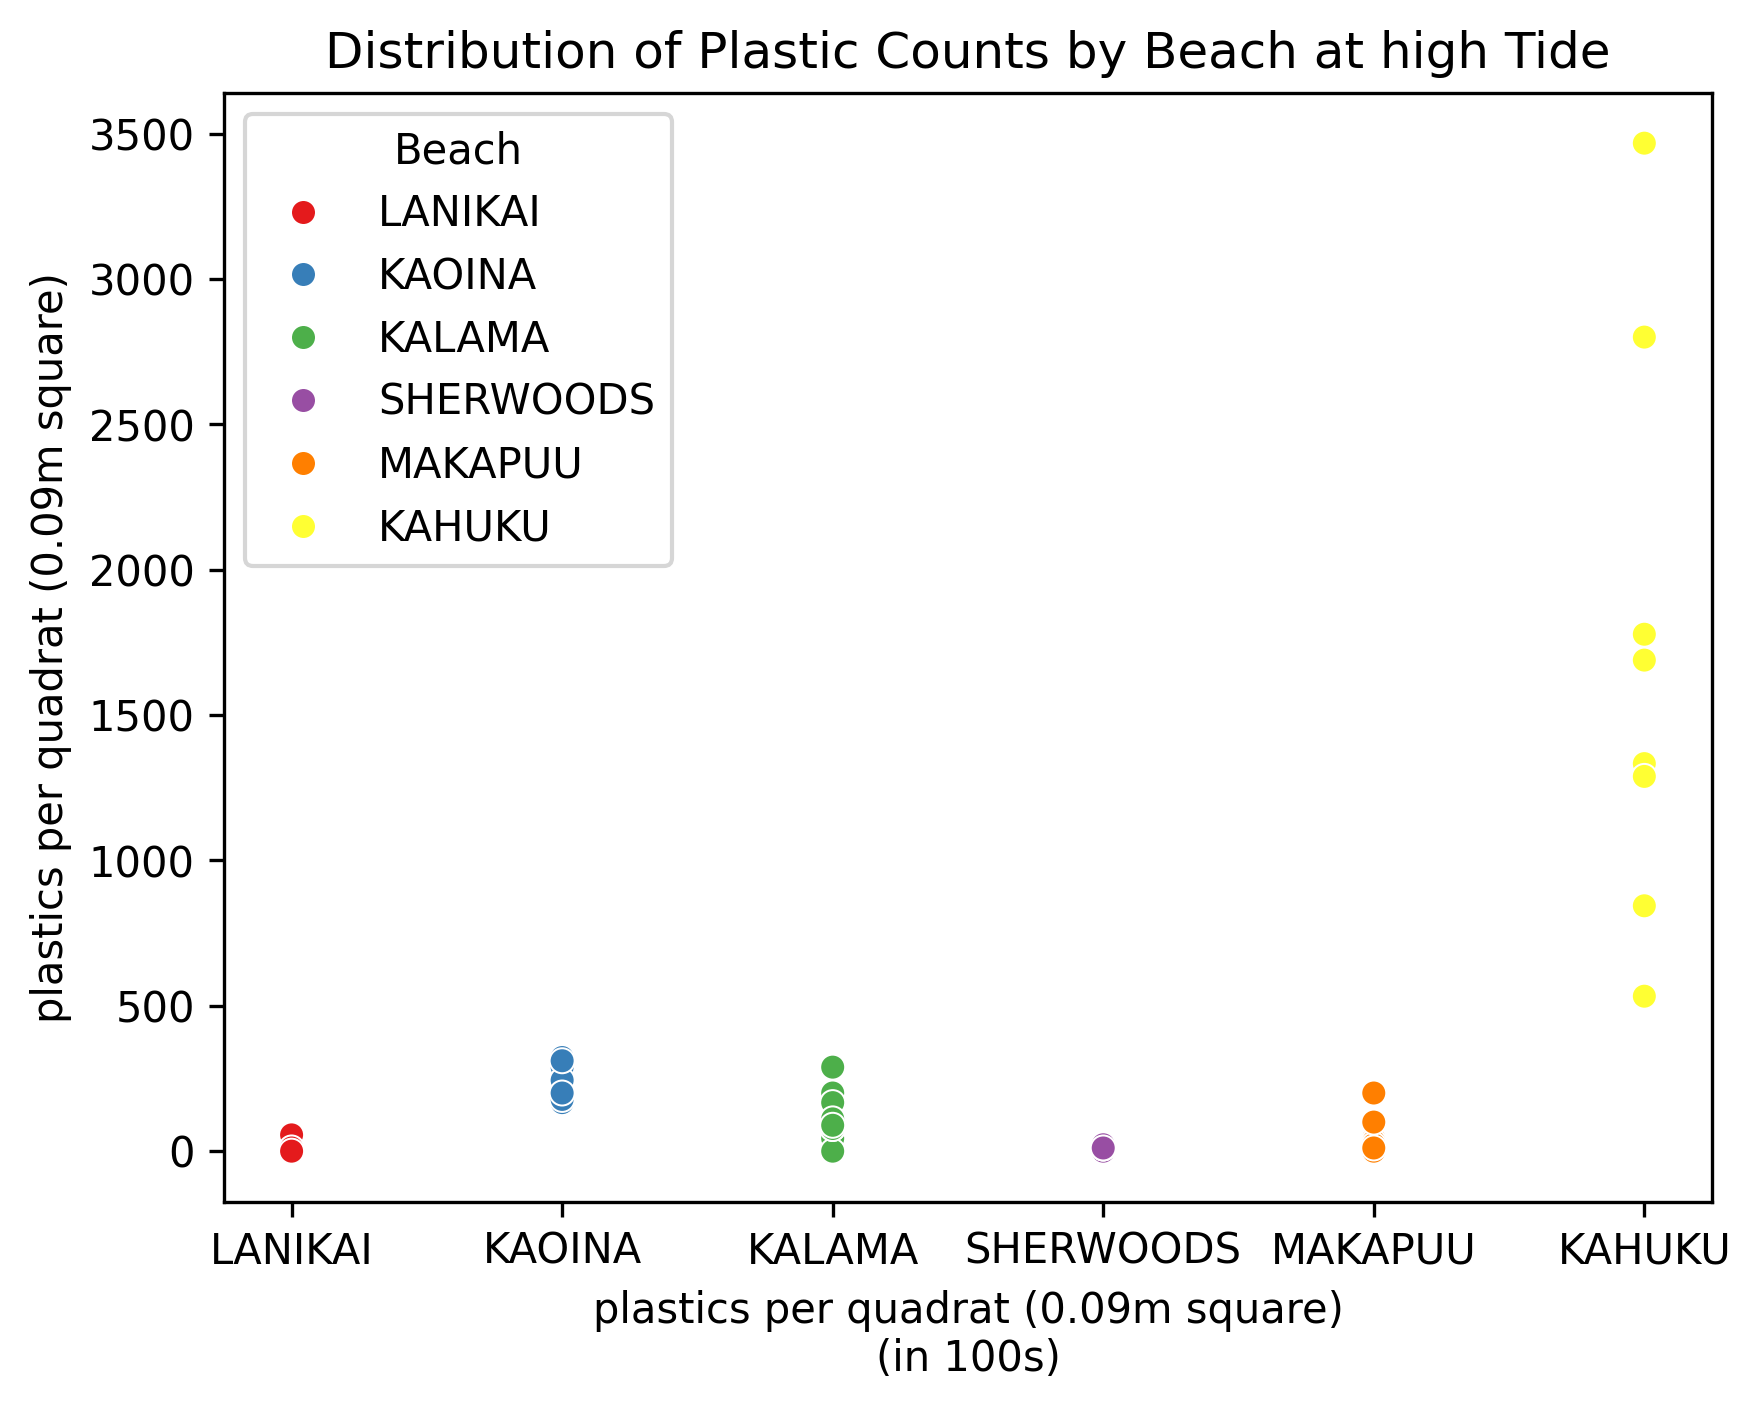
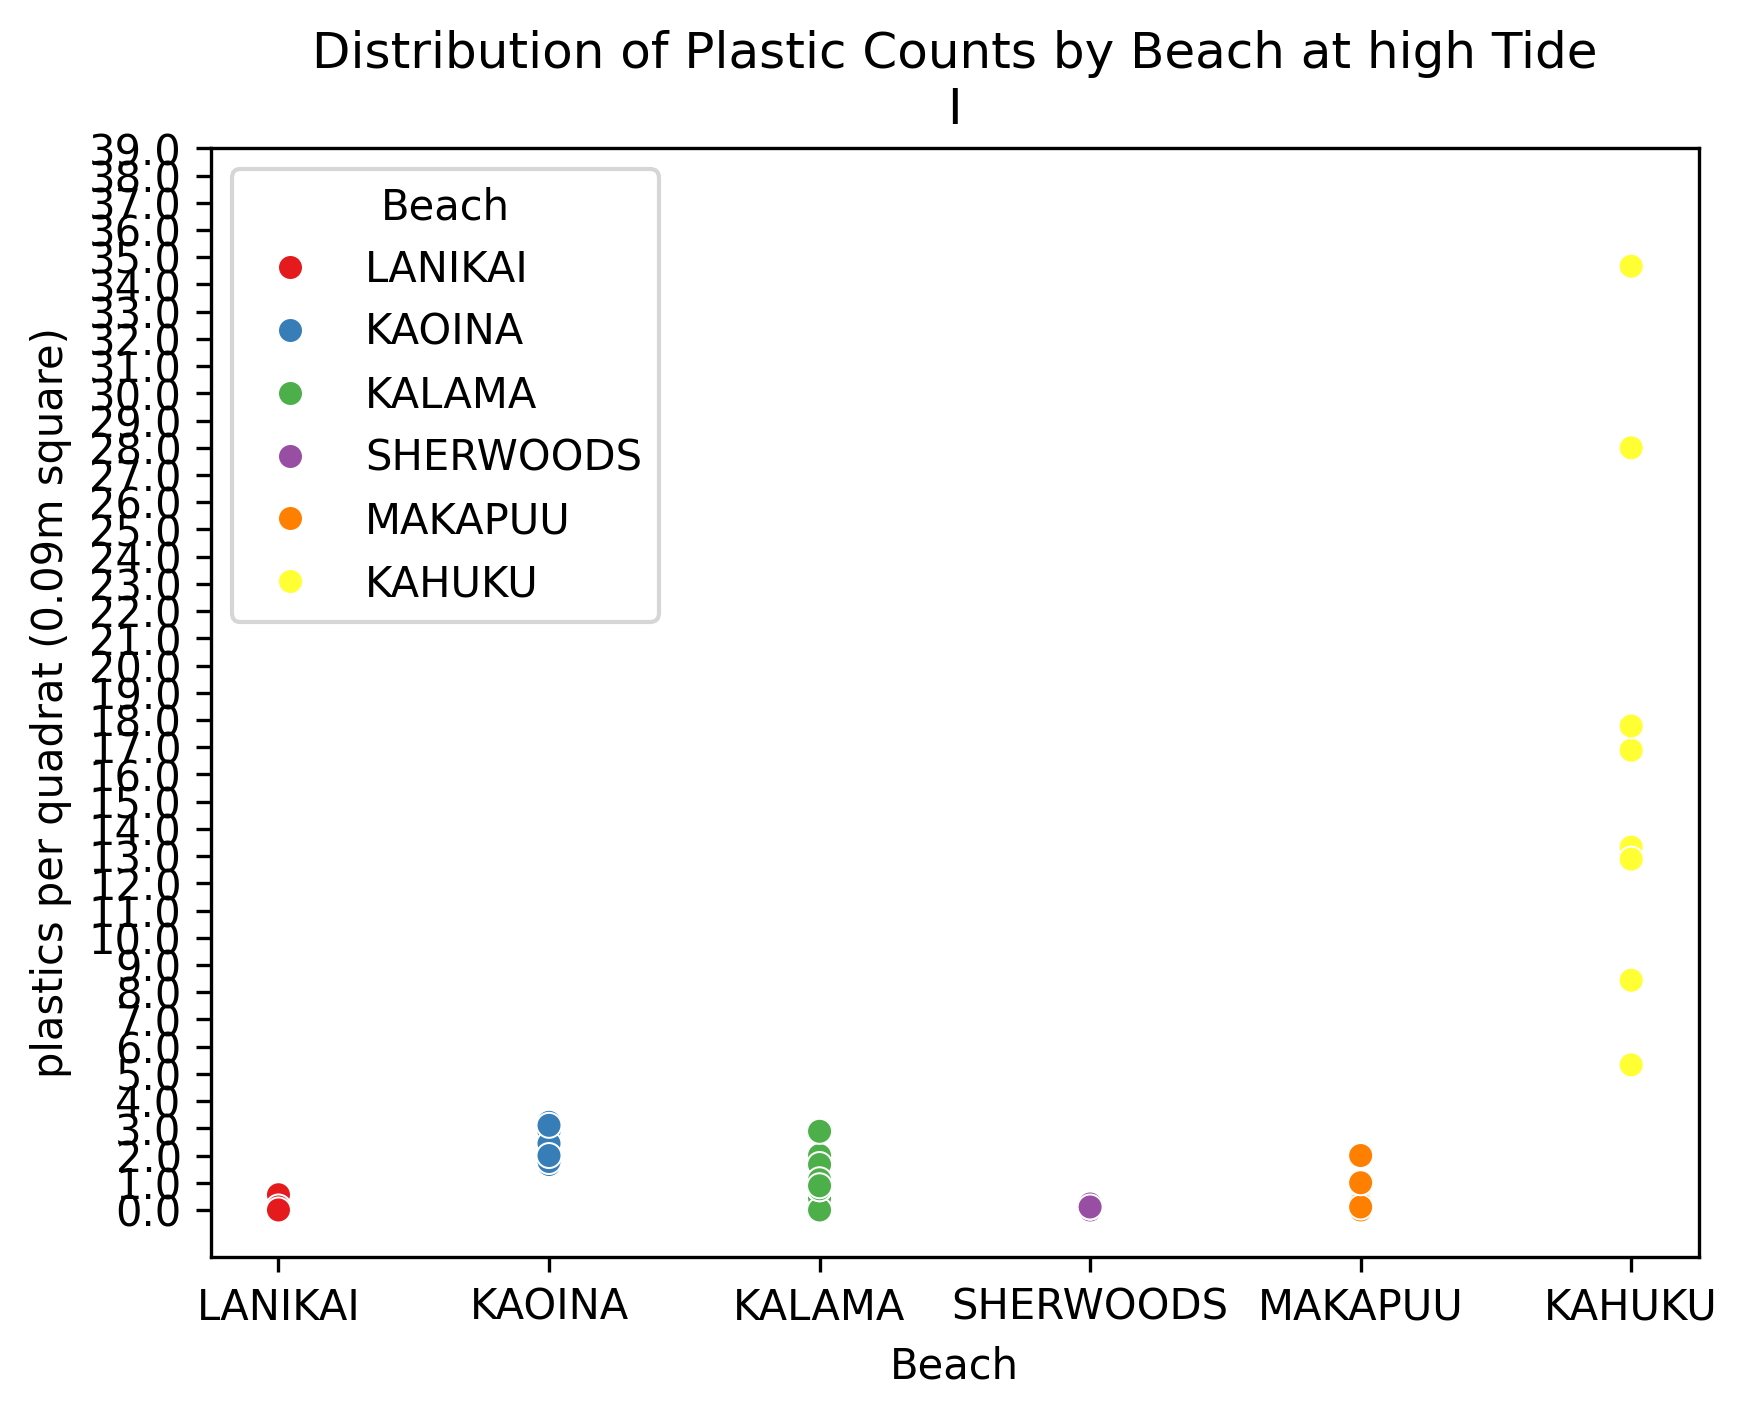
Edited and added scatter plots

diff --git a/plastic_counts_by_beach.py b/plastic_counts_by_beach.py
@@ -24,11 +24,24 @@ for t in sorted(list(set(data__particles_per_quad["Tide"].to_numpy()))):
     #sns.histplot(data=data__particles_per_quad[(data__particles_per_quad["Tide"].isin([t]))],x="plastics per quadrat (0.09m square)", bins=bins,hue="Beach",multiple="dodge",palette="Set1",edgecolor='black')#, color="#93A8BF")
     sns.scatterplot(data=data__particles_per_quad[(data__particles_per_quad["Tide"].isin([t]))],x="Beach",y="plastics per quadrat (0.09m square)",hue="Beach",palette="Set1")
     #ticks = np.arange(0,4_000,100)
-    #y_ticks = np.arange(0,10)
+    y_ticks = np.arange(0,4_000,100)
     #plt.xticks(ticks,[f"{x/100:,.0f}" for x in ticks])
-    #plt.yticks(y_ticks,[f"{x:,}" for x in y_ticks])
-    plt.xlabel("plastics per quadrat (0.09m square)\n(in 100s)")
-    plt.title(f"Distribution of Plastic Counts by Beach at {t} Tide")
+    plt.yticks(y_ticks,[f"{x/100:,}" for x in y_ticks])
+    #plt.xlabel("plastics per quadrat (0.09m square)\n(in 100s)")
+    plt.title(f"Distribution of Plastic Counts by Beach at {t} Tide\nI")
     #plt.legend()
     plt.savefig(f"Distribution of Plastic Counts at {t} Tide by Beach.png",dpi=300, bbox_inches="tight")
     #plt.show()
+    
+'''#for t in sorted(list(set(data__particles_per_quad["Tide"].to_numpy()))):
+    #sns.histplot(data=data__particles_per_quad[(data__particles_per_quad["Tide"].isin([t]))],x="plastics per quadrat (0.09m square)", bins=bins,hue="Beach",multiple="dodge",palette="Set1",edgecolor='black')#, color="#93A8BF")
+sns.scatterplot(data=data__particles_per_quad,x="Beach",y="plastics per quadrat (0.09m square)",hue="Tide",palette="Set1")
+    #ticks = np.arange(0,4_000,100)
+y_ticks = np.arange(0,4_000,100)
+    #plt.xticks(ticks,[f"{x/100:,.0f}" for x in ticks])
+plt.yticks(y_ticks,[f"{x:,}" for x in y_ticks])
+#plt.xlabel("Beach")
+plt.title(f"Distribution of Plastic Counts by Beach and Tide")
+#plt.legend()
+plt.savefig(f"Distribution of Plastic Counts by Beach and Tide.png",dpi=300, bbox_inches="tight")
+#plt.show()'''
